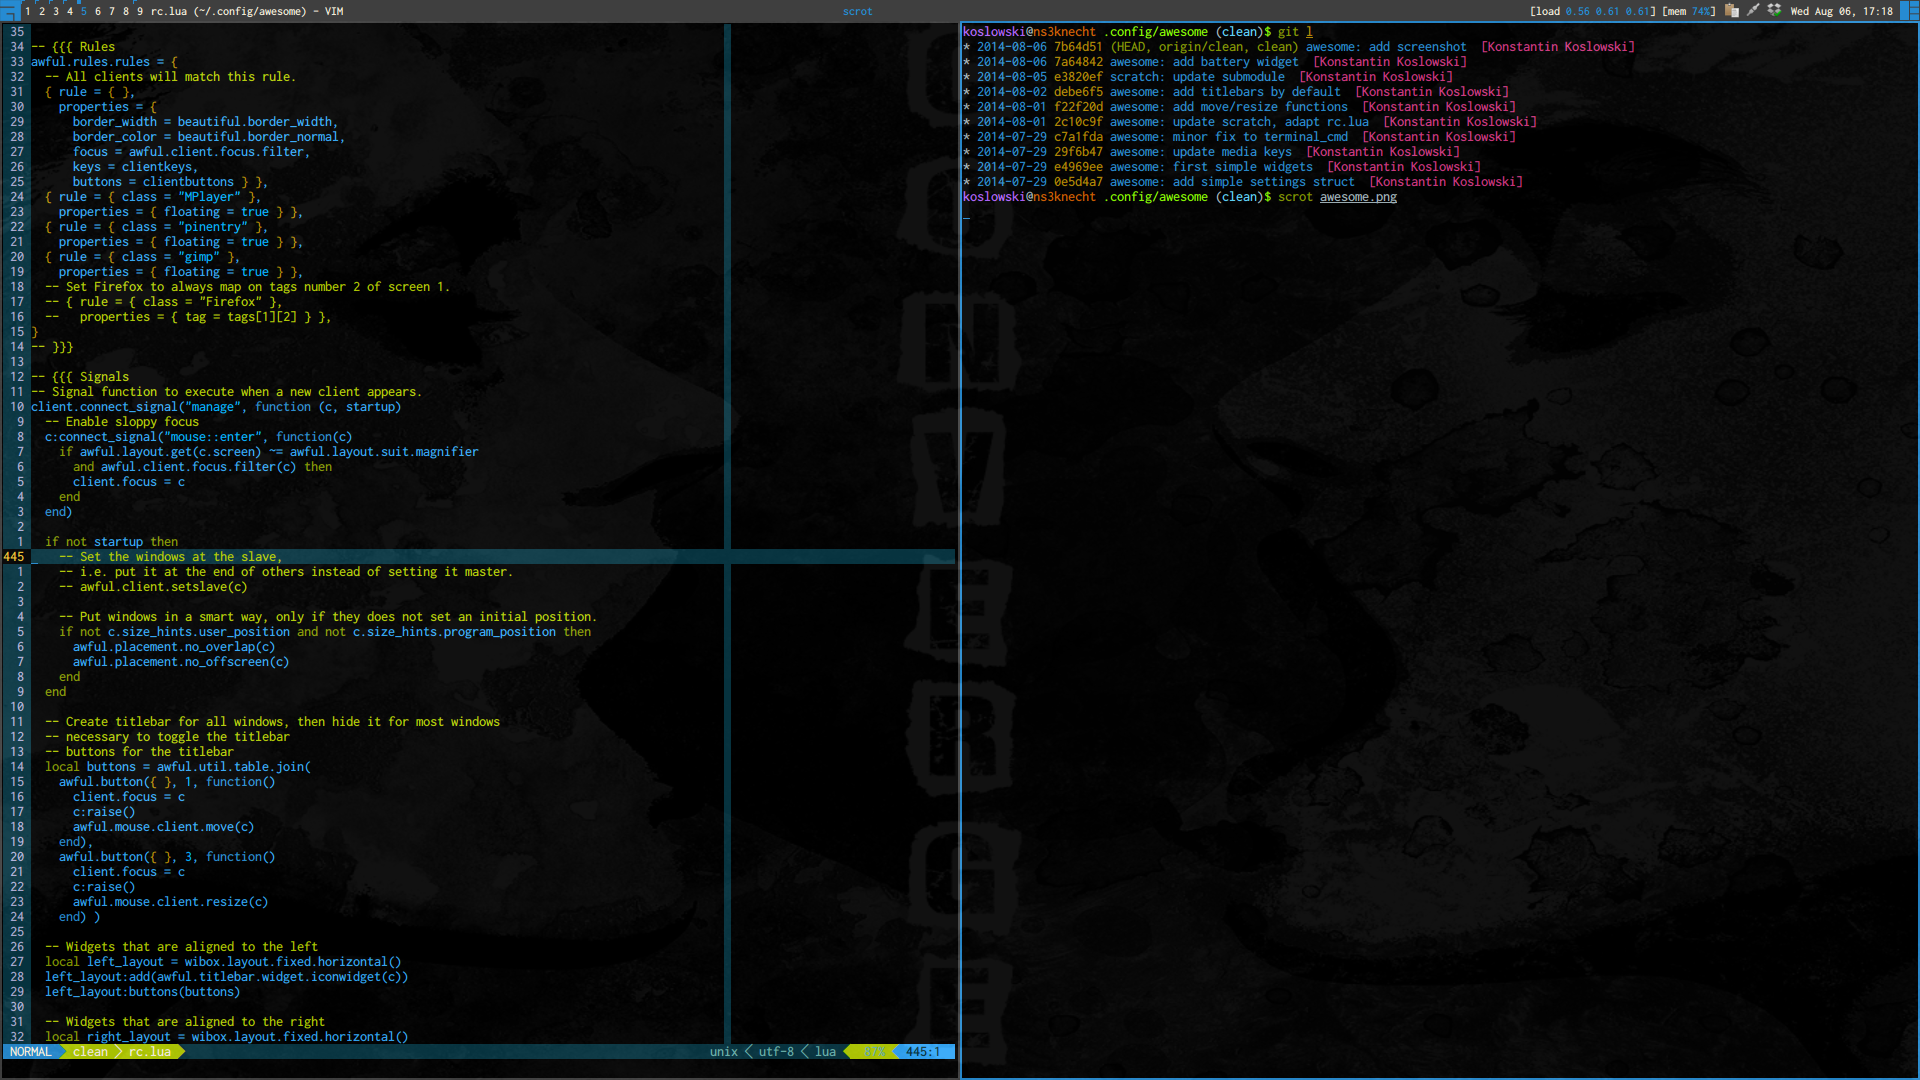
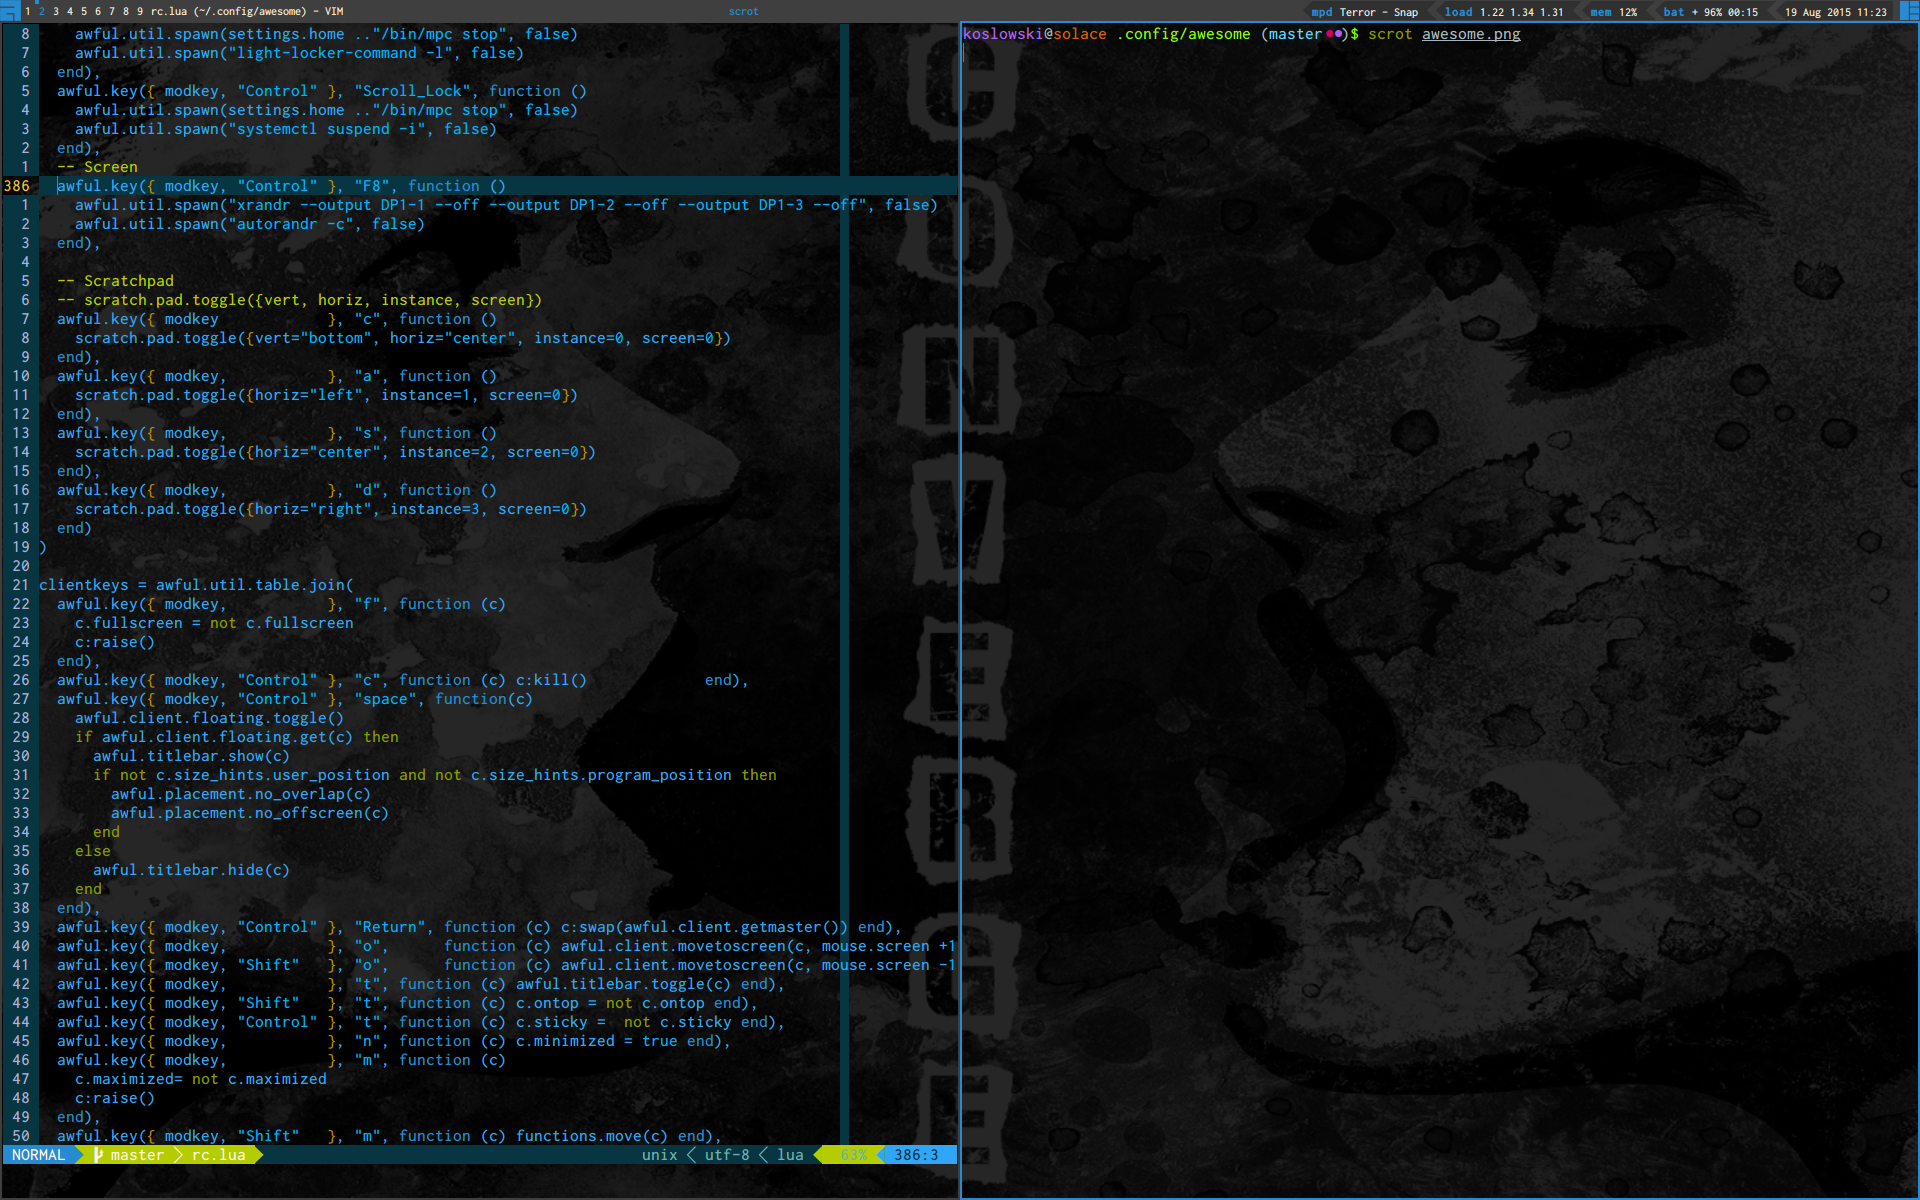
awesome: update screenshot

Changed region(s): [[0.0, 0.0, 1.0, 1.0]]

diff --git a/README.md b/README.md
@@ -3,4 +3,4 @@ awesome config
 
 try to keep it clean & simple.
 rewrite, work in progress
--![ScreenShot](https://raw.github.com/xkonni/config_awesome/clean/awesome.png)
+-![ScreenShot](https://raw.github.com/xkonni/config_awesome/master/awesome.png)
